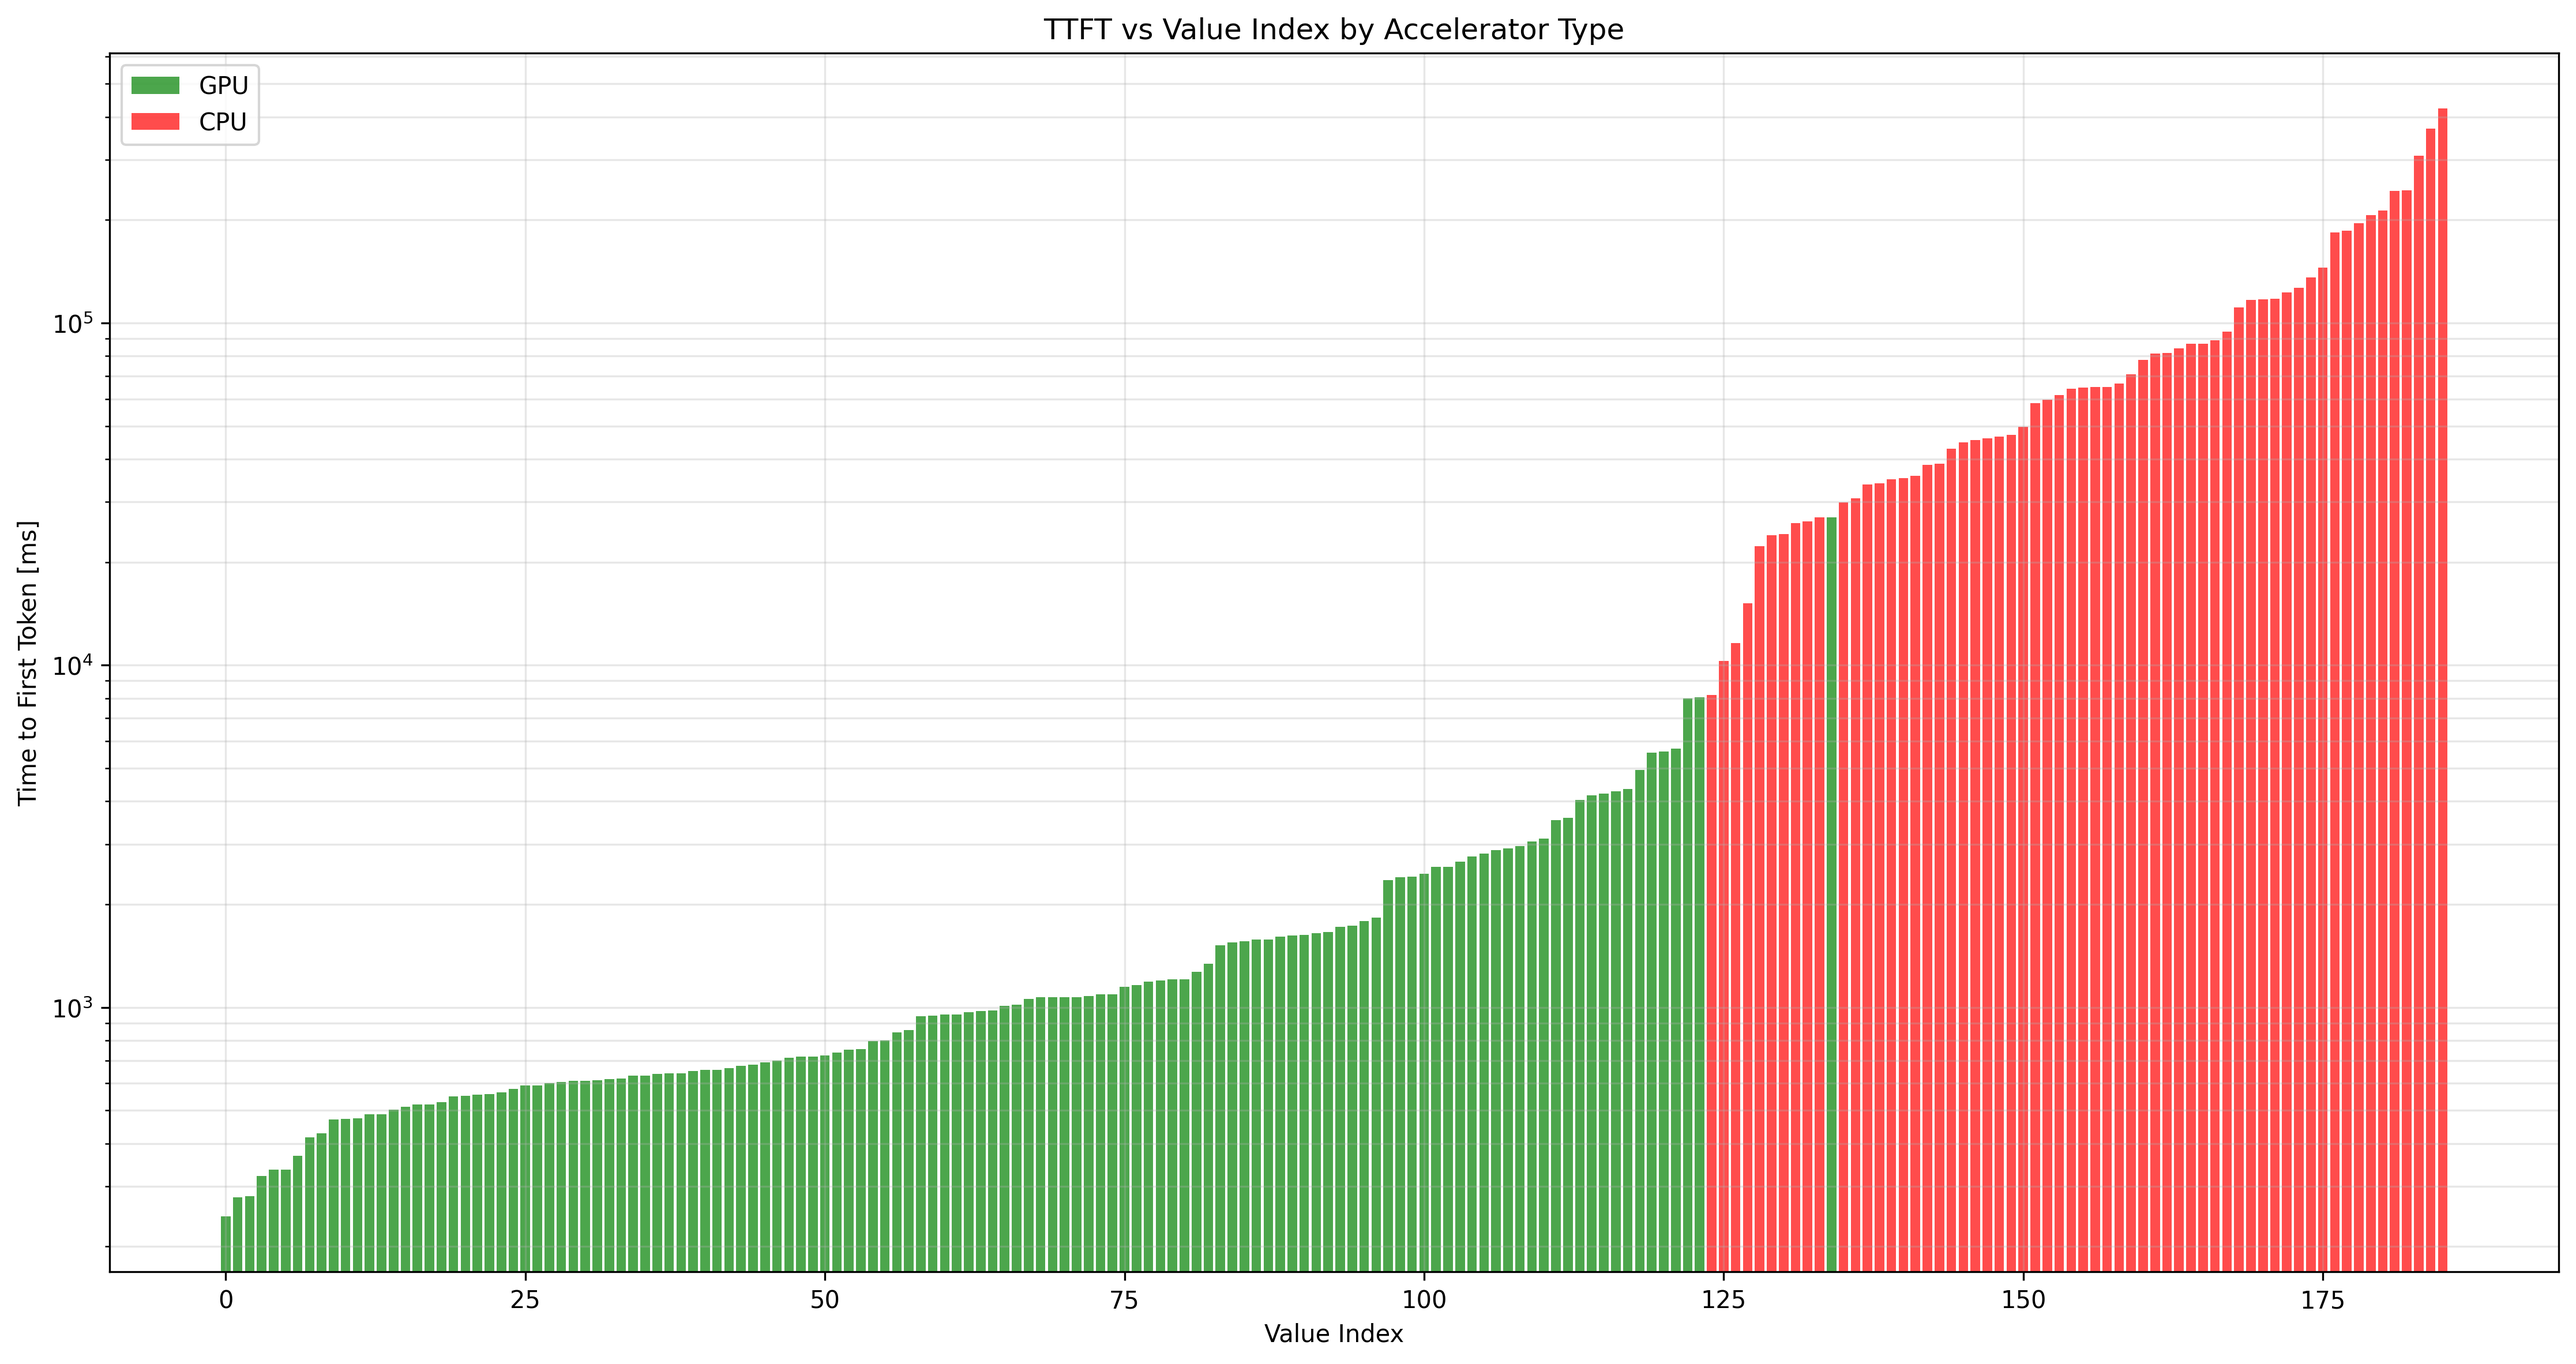
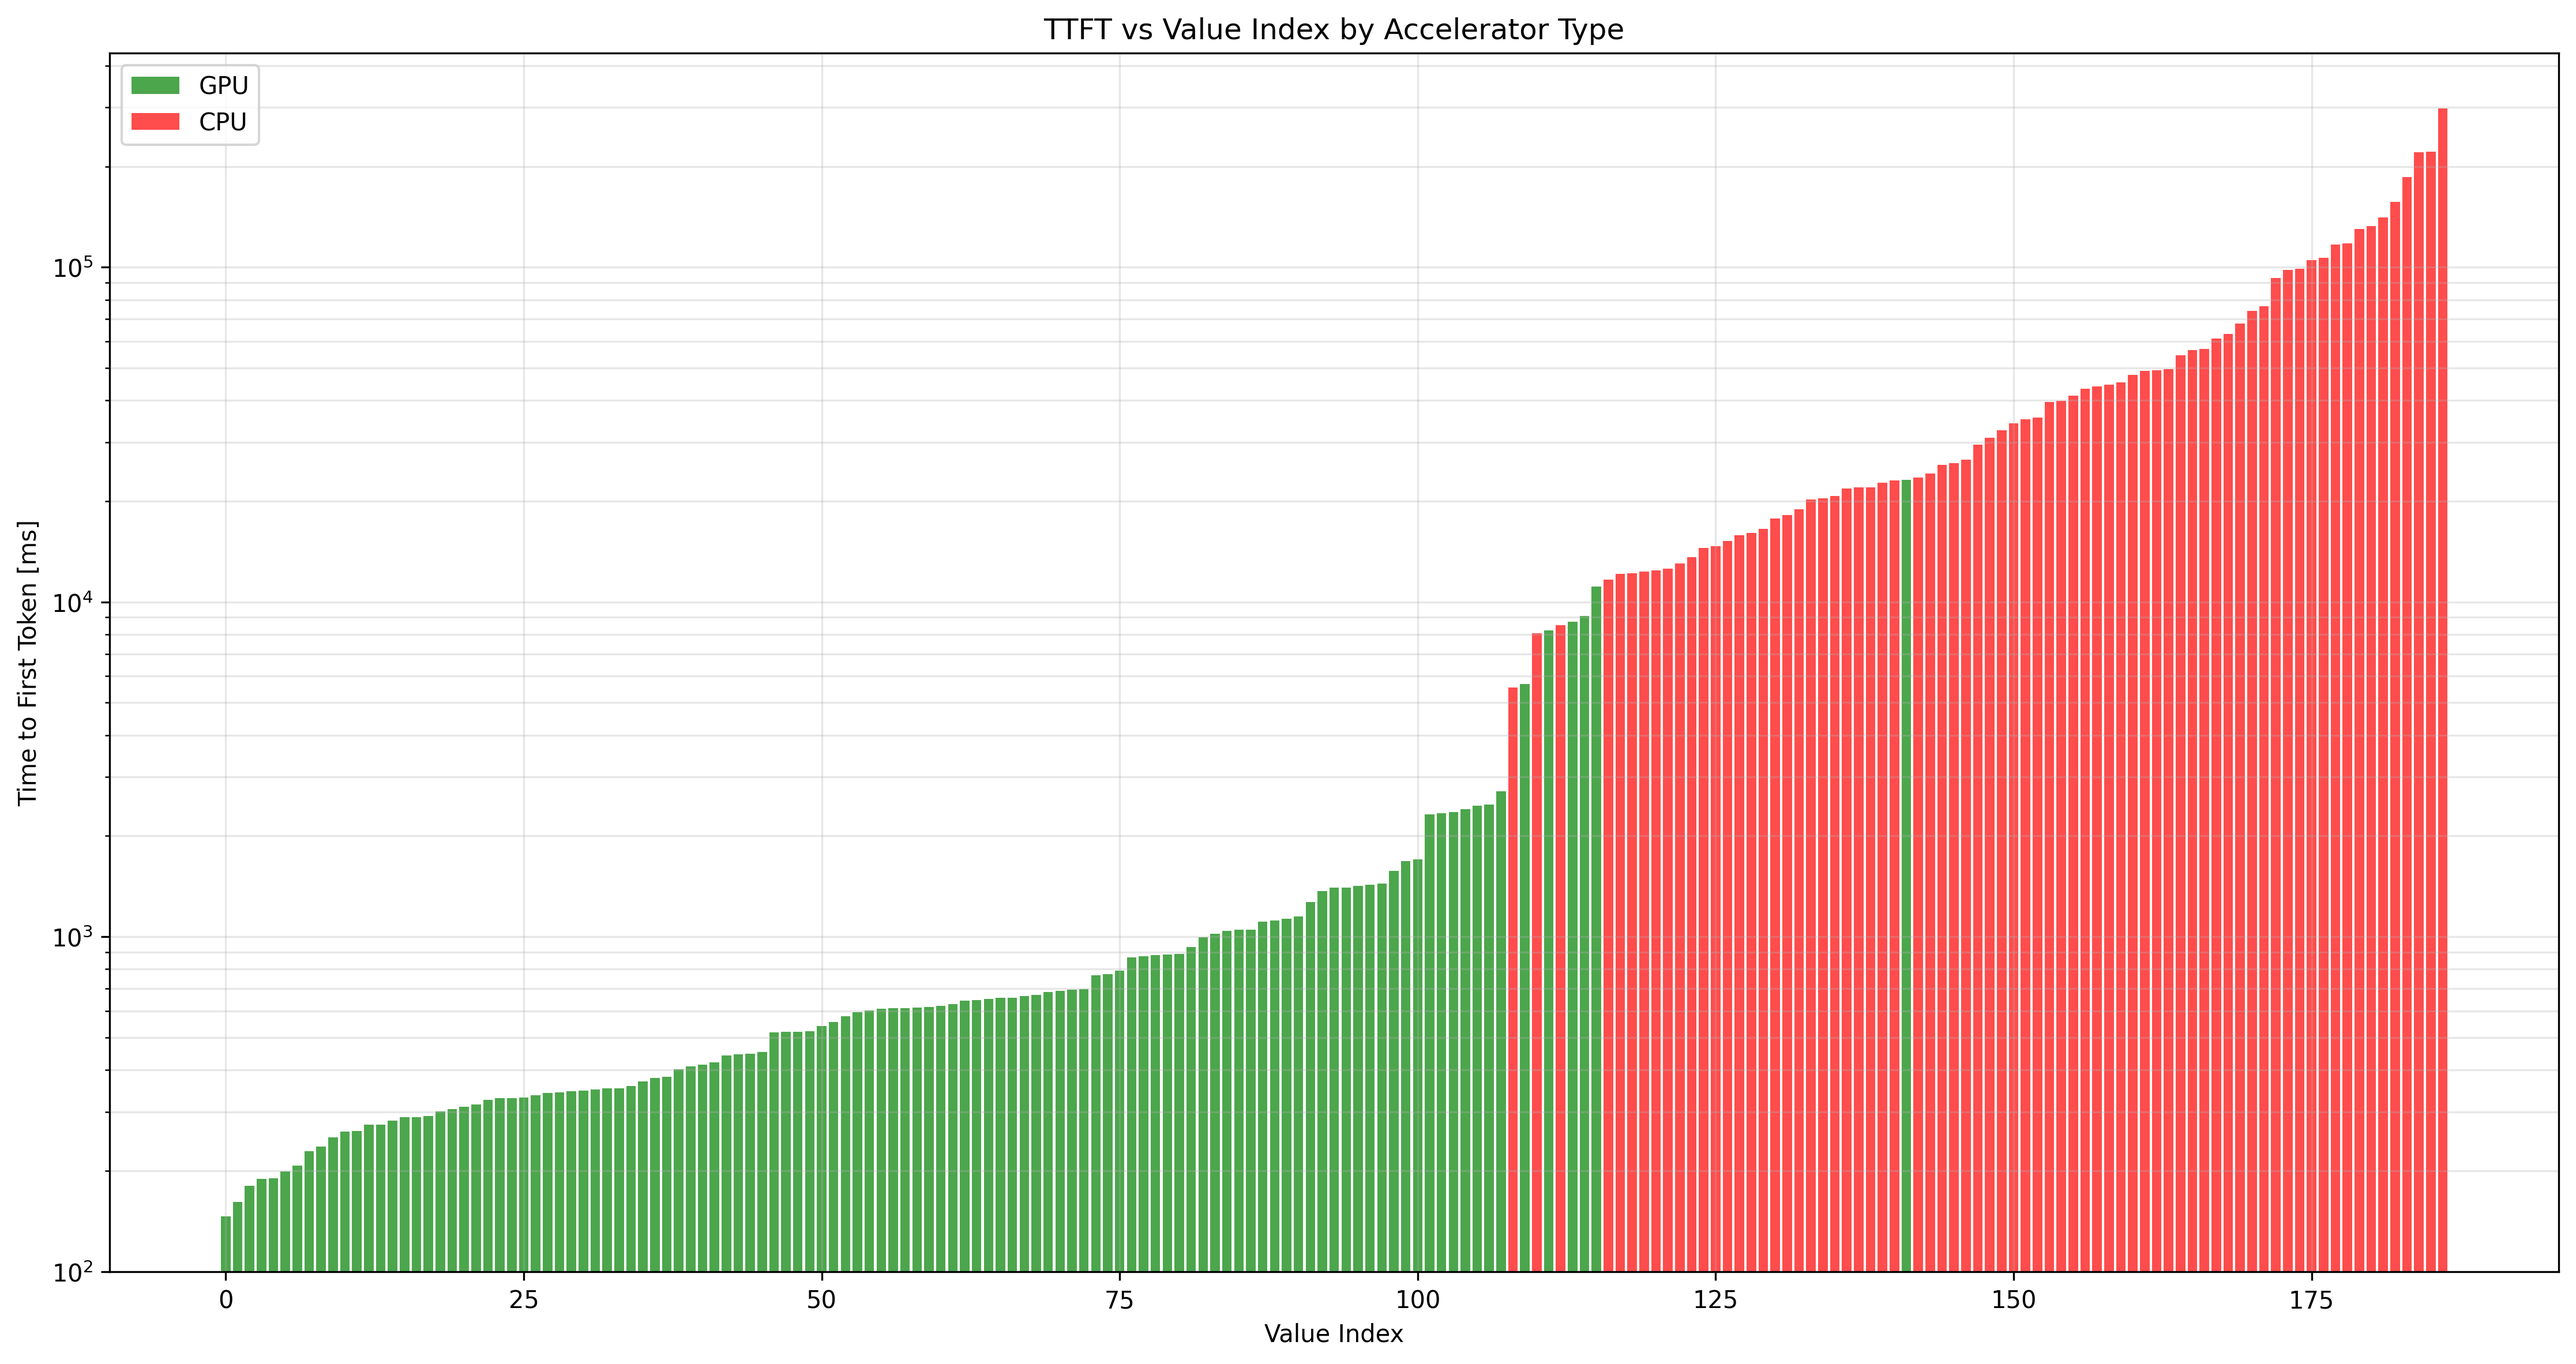
Re-generate ttft_vs_value_index.14B.png

Changed region(s): [[0.0934, 0.1543, 0.9337, 0.9569], [0.9337, 0.0926, 0.9648, 0.1235]]

diff --git a/chart.ttft.14B.py b/chart.ttft.14B.py
@@ -4,192 +4,194 @@ from io import StringIO
 
 # Your data as a string (you can also read from a file)
 data = """ttft	accel_type
-245	GPU
-279	GPU
-281	GPU
-322	GPU
-335	GPU
+146	GPU
+161	GPU
+180	GPU
+189	GPU
+190	GPU
+199	GPU
+207	GPU
+229	GPU
+236	GPU
+252	GPU
+262	GPU
+263	GPU
+274	GPU
+274	GPU
+282	GPU
+289	GPU
+289	GPU
+291	GPU
+301	GPU
+305	GPU
+310	GPU
+315	GPU
+326	GPU
+329	GPU
+330	GPU
+331	GPU
 336	GPU
-369	GPU
-417	GPU
-429	GPU
-471	GPU
-473	GPU
-475	GPU
-488	GPU
-488	GPU
-502	GPU
-513	GPU
-521	GPU
-521	GPU
-529	GPU
-550	GPU
-552	GPU
-555	GPU
-558	GPU
-565	GPU
+341	GPU
+343	GPU
+345	GPU
+347	GPU
+350	GPU
+352	GPU
+352	GPU
+358	GPU
+370	GPU
+378	GPU
+382	GPU
+401	GPU
+409	GPU
+415	GPU
+421	GPU
+441	GPU
+445	GPU
+448	GPU
+452	GPU
+518	GPU
+519	GPU
+520	GPU
+522	GPU
+540	GPU
+557	GPU
 578	GPU
-592	GPU
-592	GPU
+595	GPU
 601	GPU
-605	GPU
 609	GPU
-610	GPU
-613	GPU
+611	GPU
+612	GPU
+614	GPU
 617	GPU
-619	GPU
-631	GPU
-632	GPU
-640	GPU
-641	GPU
-641	GPU
+621	GPU
+629	GPU
+645	GPU
+647	GPU
 651	GPU
+656	GPU
 657	GPU
-658	GPU
 665	GPU
-676	GPU
-680	GPU
-692	GPU
-700	GPU
-713	GPU
-718	GPU
-719	GPU
-723	GPU
-738	GPU
-752	GPU
-754	GPU
-798	GPU
-802	GPU
-846	GPU
-859	GPU
-944	GPU
-945	GPU
-952	GPU
-954	GPU
-968	GPU
-976	GPU
-979	GPU
-1010	GPU
+669	GPU
+683	GPU
+689	GPU
+694	GPU
+696	GPU
+767	GPU
+772	GPU
+793	GPU
+869	GPU
+874	GPU
+880	GPU
+885	GPU
+888	GPU
+933	GPU
+995	GPU
 1020	GPU
-1060	GPU
-1070	GPU
-1070	GPU
-1070	GPU
-1070	GPU
-1080	GPU
-1090	GPU
-1090	GPU
+1040	GPU
+1050	GPU
+1050	GPU
+1110	GPU
+1120	GPU
+1130	GPU
 1150	GPU
-1160	GPU
-1190	GPU
-1200	GPU
-1210	GPU
-1210	GPU
 1270	GPU
-1340	GPU
-1520	GPU
-1550	GPU
-1560	GPU
-1580	GPU
-1580	GPU
-1610	GPU
-1620	GPU
-1630	GPU
-1650	GPU
-1660	GPU
-1720	GPU
-1730	GPU
-1790	GPU
-1830	GPU
-2350	GPU
+1370	GPU
+1400	GPU
+1400	GPU
+1420	GPU
+1430	GPU
+1440	GPU
+1570	GPU
+1680	GPU
+1700	GPU
+2320	GPU
+2340	GPU
+2360	GPU
 2400	GPU
-2410	GPU
 2460	GPU
-2570	GPU
-2570	GPU
-2670	GPU
-2760	GPU
-2820	GPU
-2880	GPU
-2920	GPU
-2960	GPU
-3050	GPU
-3110	GPU
-3530	GPU
-3580	GPU
-4040	GPU
-4160	GPU
-4220	GPU
-4280	GPU
-4350	GPU
-4940	GPU
-5550	GPU
-5600	GPU
-5710	GPU
-7990	GPU
-8070	GPU
-8170	CPU
-10270	CPU
-11600	CPU
-15140	CPU
-22240	CPU
-23990	CPU
-24120	CPU
-26010	CPU
-26300	CPU
-27050	CPU
-27080	GPU
-29880	CPU
-30790	CPU
-33680	CPU
-33990	CPU
-34940	CPU
-35240	CPU
-35700	CPU
-38420	CPU
-38790	CPU
-42830	CPU
-44830	CPU
-45420	CPU
-45940	CPU
-46610	CPU
-47140	CPU
-49800	CPU
-58230	CPU
-59670	CPU
-61510	CPU
-64220	CPU
-64670	CPU
-64879	CPU
-65040	CPU
-66600	CPU
-70720	CPU
-78020	CPU
-81350	CPU
-81740	CPU
-84330	CPU
-86830	CPU
-87080	CPU
-89140	CPU
-94400	CPU
-111060	CPU
-116840	CPU
-117370	CPU
-117570	CPU
-122840	CPU
-126790	CPU
-136080	CPU
-145260	CPU
-183560	CPU
-185910	CPU
-195980	CPU
-206650	CPU
-213280	CPU
-242770	CPU
-243740	CPU
-308340	CPU
-370380	CPU
-423430	CPU"""
+2480	GPU
+2720	GPU
+5560	CPU
+5680	GPU
+8050	CPU
+8220	GPU
+8510	CPU
+8730	GPU
+9090	GPU
+11110	GPU
+11640	CPU
+12110	CPU
+12160	CPU
+12330	CPU
+12420	CPU
+12550	CPU
+13040	CPU
+13610	CPU
+14500	CPU
+14660	CPU
+15240	CPU
+15800	CPU
+16079	CPU
+16520	CPU
+17730	CPU
+18160	CPU
+18910	CPU
+20280	CPU
+20420	CPU
+20740	CPU
+21820	CPU
+21970	CPU
+21980	CPU
+22720	CPU
+23070	CPU
+23140	GPU
+23510	CPU
+24190	CPU
+25670	CPU
+26020	CPU
+26600	CPU
+29510	CPU
+30960	CPU
+32520	CPU
+34110	CPU
+35090	CPU
+35560	CPU
+39600	CPU
+39870	CPU
+41330	CPU
+43330	CPU
+44020	CPU
+44660	CPU
+45280	CPU
+47630	CPU
+49040	CPU
+49220	CPU
+49690	CPU
+54600	CPU
+56470	CPU
+57040	CPU
+61340	CPU
+63160	CPU
+67890	CPU
+73940	CPU
+76440	CPU
+92910	CPU
+98340	CPU
+99050	CPU
+105130	CPU
+106670	CPU
+116730	CPU
+117860	CPU
+130259	CPU
+132500	CPU
+140590	CPU
+156940	CPU
+186150	CPU
+220700	CPU
+221240	CPU
+298080	CPU
+"""
 
 # Read the data into a pandas DataFrame
 df = pd.read_csv(StringIO(data), sep='\t')
@@ -224,4 +226,4 @@ plt.tight_layout()
 # plt.show()
 
 #save result to png file
-plt.savefig('ttft_vs_value_index.png', dpi=300, bbox_inches='tight')
+plt.savefig('ttft_vs_value_index.14B.png', dpi=300, bbox_inches='tight')
